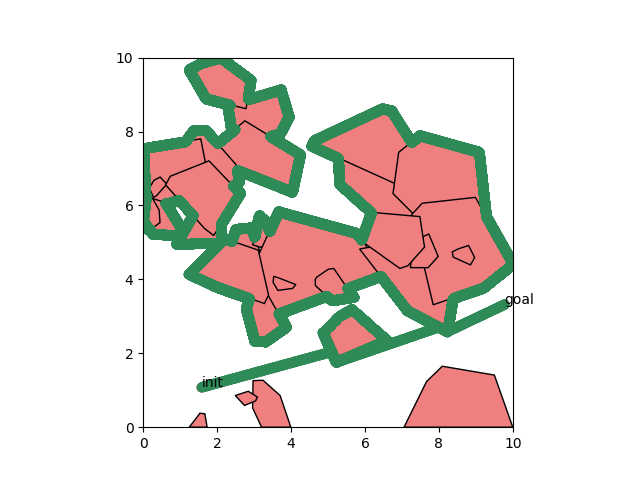
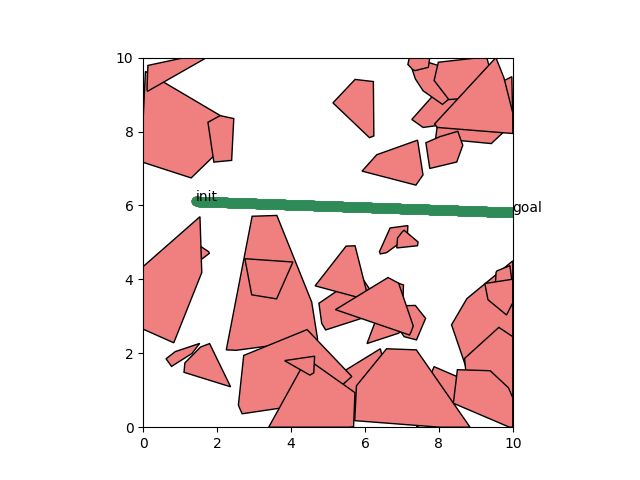
final

diff --git a/ws/hw2/MyBugAlgorithm.cpp b/ws/hw2/MyBugAlgorithm.cpp
@@ -3,6 +3,9 @@
 
 // Define a global (file-static) step size
 static constexpr double GLOBAL_STEP_SIZE = 0.01;
+static constexpr double WALL_OFFSET = 0.05; // Keep bug this distance away from walls
+static constexpr double LOOKAHEAD_STEP = 5;
+static constexpr double EXTRA_STEP = 1.0;
 
 // Helper function to check if a point is inside any obstacle and return which obstacle
 int MyBugAlgorithm::isInCollision(const Eigen::Vector2d& point, const amp::Problem2D& problem) {
@@ -47,15 +50,17 @@ Eigen::Vector2d MyBugAlgorithm::rotateCounterClockwise90(const Eigen::Vector2d& 
 }
 
 // Combined function to find closest boundary point AND wall normal from specific obstacle
-std::pair<Eigen::Vector2d, Eigen::Vector2d> MyBugAlgorithm::findClosestBoundaryAndNormal(const Eigen::Vector2d& point, const amp::Problem2D& problem, int obstacle_index) {
+// Returns (boundary_point, wall_normal, vertex_index) where vertex_index is the starting vertex for clockwise traversal
+std::tuple<Eigen::Vector2d, Eigen::Vector2d, int> MyBugAlgorithm::findClosestBoundaryAndNormal(const Eigen::Vector2d& point, const amp::Problem2D& problem, int obstacle_index) {
     double min_distance = std::numeric_limits<double>::max();
     Eigen::Vector2d closest_point = point;
     Eigen::Vector2d wall_normal = Eigen::Vector2d(1, 0); // Default normal
+    int closest_vertex_index = 0; // Which vertex to start clockwise traversal from
     
     // Only check the specified obstacle
     if (obstacle_index >= 0 && obstacle_index < problem.obstacles.size()) {
-        const auto& obstacle = problem.obstacles[obstacle_index];
-        const auto& vertices = obstacle.verticesCCW();
+        // Get vertices in clockwise order
+        std::vector<Eigen::Vector2d> vertices = getVerticesClockwise(problem, obstacle_index);
         int n = vertices.size();
         
         for (int i = 0; i < n; i++) {
@@ -73,21 +78,26 @@ std::pair<Eigen::Vector2d, Eigen::Vector2d> MyBugAlgorithm::findClosestBoundaryA
             
             double distance = (point - closest_on_edge).norm();
             if (distance < min_distance) {
+                //LOG("Distance: " << distance);
+                //LOG("EDGE VERTICES: " << v1.x() << "," << v1.y() << " and " << v2.x() << "," << v2.y());
                 min_distance = distance;
                 closest_point = closest_on_edge;
-                
+                closest_vertex_index = (i+1) % n; // Store the vertex index for clockwise traversal
+                //LOG("Closest vertex index: " << closest_vertex_index);
                 // Print the edge that was chosen
-                std::cout << "Chosen edge from obstacle " << obstacle_index << ": v1=(" << v1.x() << ", " << v1.y() << ") to v2=(" << v2.x() << ", " << v2.y() << "), distance=" << distance << std::endl;
+                //LOG("Chosen vertex vector: " << vertices[closest_vertex_index].x() << "," << vertices[closest_vertex_index].y());
+                //LOG("Next vertex vector: " << vertices[(closest_vertex_index+1) % n].x() << "," << vertices[(closest_vertex_index+1) % n].y());
                 
-                // Calculate outward normal for CCW polygon
-                // For edge v1->v2, outward normal is perpendicular to the RIGHT
-                // Since polygons are CCW, outward normal points away from obstacle
+                // Print all vertices in the list
+                //LOG("All vertices in clockwise order:");
+                
+                // Calculate outward normal for clockwise polygon
+                // For edge v1->v2 in clockwise order, outward normal is perpendicular to the LEFT
                 Eigen::Vector2d edge_unit = edge / edge_length;
-                wall_normal = Eigen::Vector2d(-edge_unit.y(), edge_unit.x()); // Right perpendicular = outward normal
+                wall_normal = Eigen::Vector2d(edge_unit.y(), -edge_unit.x()); // Left perpendicular = outward normal for clockwise
             }
         }
     }
-    
     // Verify normal points outward by checking if it points away from obstacle center
     if (obstacle_index >= 0 && obstacle_index < problem.obstacles.size()) {
         // Find center of the specific obstacle
@@ -111,7 +121,22 @@ std::pair<Eigen::Vector2d, Eigen::Vector2d> MyBugAlgorithm::findClosestBoundaryA
         }
     }
     
-    return std::make_pair(closest_point, wall_normal.normalized());
+    return std::make_tuple(closest_point, wall_normal.normalized(), closest_vertex_index);
+}
+
+// Helper method to get vertices in clockwise order (reverse of CCW)
+std::vector<Eigen::Vector2d> MyBugAlgorithm::getVerticesClockwise(const amp::Problem2D& problem, int obstacle_index) {
+    std::vector<Eigen::Vector2d> clockwise_vertices;
+    
+    if (obstacle_index >= 0 && obstacle_index < problem.obstacles.size()) {
+        const auto& vertices_ccw = problem.obstacles[obstacle_index].verticesCCW();
+        // Reverse the CCW vertices to get clockwise order
+        for (int i = vertices_ccw.size() - 1; i >= 0; i--) {
+            clockwise_vertices.push_back(vertices_ccw[i]);
+        }
+    }
+    
+    return clockwise_vertices;
 }
 
 // The fully implemented Bug 1 algorithm
@@ -120,7 +145,7 @@ amp::Path2D MyBugAlgorithm::plan(const amp::Problem2D& problem) {
     Eigen::Vector2d current_pos = problem.q_init;
     path.waypoints.push_back(current_pos);
 
-    int max_steps = 10000; // Prevent infinite loops REMOVE LATER
+    int max_steps = 50000; // Prevent infinite loops REMOVE LATER
     int step_count = 0;
 
     // Main loop: Continue until the goal is reached
@@ -131,29 +156,191 @@ amp::Path2D MyBugAlgorithm::plan(const amp::Problem2D& problem) {
         Eigen::Vector2d goal_direction = (problem.q_goal - current_pos).normalized();
 
         Eigen::Vector2d next_pos = current_pos + GLOBAL_STEP_SIZE * goal_direction;
+        Eigen::Vector2d next_pos_lookahead = current_pos + LOOKAHEAD_STEP * GLOBAL_STEP_SIZE * goal_direction;
 
         // Check for collision
-        int collision_obstacle = isInCollision(next_pos, problem);
+        int collision_obstacle = isInCollision(next_pos_lookahead, problem);
         if (collision_obstacle == -1) {
             // No collision, take the step
             current_pos = next_pos;
             path.waypoints.push_back(current_pos);
         } else {
             // Collision detected! Enter wall-following mode.
-            
-            // === STATE 2: CIRCUMNAVIGATE OBSTACLE (Right-Hand Rule) === amend infuture follow counterclockwise iterate thru points on the obstacle??? keep checkign forward vector for collisions with other obstacles
+            // === STATE 2: CIRCUMNAVIGATE OBSTACLE (Right-Hand Rule) === amend infuture follow clockwise iterate thru points on the obstacle   ??? keep checkign forward vector for collisions with other obstacles
             Eigen::Vector2d hit_point = current_pos; // this might need to be changed to the point on the obstacle boundary that we hit
             Eigen::Vector2d closest_point = hit_point;
             Eigen::Vector2d circumnavigation_start = hit_point; // Save starting position for circumnavigation
+
             double min_dist_to_goal = (hit_point - problem.q_goal).norm();
 
             // Use the obstacle we just hit
             int current_obstacle = collision_obstacle;
-            LOG("Hit obstacle index: " << current_obstacle);
+            //LOG("Hit obstacle index: " << current_obstacle);
 
             // Find the closest point on the obstacle boundary AND get wall normal
-            auto [boundary_point, wall_normal] = findClosestBoundaryAndNormal(current_pos, problem, current_obstacle);
+            auto [boundary_point, wall_normal, start_vertex_index] = findClosestBoundaryAndNormal(current_pos, problem, current_obstacle);
+            //LOG("Start vertex index: " << start_vertex_index);
+            std::vector<Eigen::Vector2d> clockwise_vertices = getVerticesClockwise(problem, current_obstacle);
+            //LOG("Start vertex: " << clockwise_vertices[start_vertex_index].x() << "," << clockwise_vertices[start_vertex_index].y());
+            //LOG("Next vertex: " << clockwise_vertices[(start_vertex_index + 1) % clockwise_vertices.size()].x() << "," << clockwise_vertices[(start_vertex_index + 1) % clockwise_vertices.size()].y());
+           
+  
+            // Get vertices in clockwise order for wall following
+        
+            int current_vertex_index = start_vertex_index;
             
+            // Create offset target using wall normal (much simpler!)
+            // Offset should be from the start vertex, not the arbitrary boundary point
+            Eigen::Vector2d start_vertex = clockwise_vertices[current_vertex_index];
+            Eigen::Vector2d target_vertex = start_vertex + WALL_OFFSET * wall_normal;
+            
+            // Track if we've completed circumnavigation
+            bool circumnavigated = false;
+            
+            // Wall following loop - go clockwise around obstacle
+            int wall_follow_steps = 0;
+            while (wall_follow_steps < 200000) { // Safety limit for wall following
+    
+                // Check if current position is closer to goal than previous minimum
+                double current_dist_to_goal = (current_pos - problem.q_goal).norm();
+                if (current_dist_to_goal < min_dist_to_goal) {
+                    min_dist_to_goal = current_dist_to_goal;
+                    closest_point = current_pos;
+                    //LOG("New closest point to goal found at distance: " << min_dist_to_goal);
+                    
+                }
+                // if (circumnavigated) {
+                //     std::cout << "Press Enter to continue..." << std::endl;
+                //     std::cin.get();
+                // }
+               // LOG("Cloest point to goal: " << closest_point.x() << "," << closest_point.y());
+               
+                    // We can move towards the goal! Check if we've completed circumnavigation
+                 if (circumnavigated && (current_pos - closest_point).norm() < GLOBAL_STEP_SIZE * 5) {
+                        // We've completed circumnavigation AND we're at the closest point to goal
+                        //LOG("Circumnavigation complete and at closest point - can leave wall following!");
+                        //LOG("Moving towards goal from closest point");
+                        break; // Exit wall following mode
+                    }
+                
+               
+                wall_follow_steps++;
+               //LOG("location of bug: " << current_pos.x() << "," << current_pos.y());
+                // std::cout << "Press Enter to continue..." << std::endl;
+                // std::cin.get();
+                // Move towards the current target vertex in clockwise direction
+                Eigen::Vector2d vertex_direction = (target_vertex - current_pos).normalized();
+                Eigen::Vector2d vertex_step = current_pos + GLOBAL_STEP_SIZE * vertex_direction;
+                // std::cout << "Press Enter to continue..." << std::endl;
+                // std::cin.get();
+                // Check 50% further ahead to anticipate collisions
+                Eigen::Vector2d lookahead_step = current_pos + LOOKAHEAD_STEP * GLOBAL_STEP_SIZE * vertex_direction;
+                
+                // Check if we can move towards the vertex (check both current step and lookahead)
+                int lookahead_collision = isInCollision(lookahead_step, problem);
+               // LOG("Lookahead collision: " << lookahead_collision);
+               // LOG("lookahead step vector: " << lookahead_step.x() << "," << lookahead_step.y());
+         
+                if (lookahead_collision == -1) {
+                    current_pos = vertex_step;
+                    path.waypoints.push_back(current_pos);
+                   // LOG("Moving towards vertex " << current_vertex_index << " at (" << current_pos.x() << "," << current_pos.y() << ")");
+                   // LOG("target: " << target_vertex.x() << "," << target_vertex.y());
+                    
+                    // Check if we've reached the target vertex
+                    if ((current_pos - target_vertex).norm() < GLOBAL_STEP_SIZE) {
+                        // Move to the next vertex in clockwise order
+                        // Take an extra step past the vertex to ensure we go past it
+                        current_pos = current_pos + GLOBAL_STEP_SIZE* EXTRA_STEP * vertex_direction;
+                        path.waypoints.push_back(current_pos);
+                        
+                        current_vertex_index = (current_vertex_index + 1) % clockwise_vertices.size();
+                    
+                     
+                        // Get wall normal for the next edge (from current_vertex_index to next vertex, i.e., current_vertex_index + 1)
+                        int next_vertex_index = (current_vertex_index - 1) % clockwise_vertices.size();
+                        Eigen::Vector2d edge = clockwise_vertices[next_vertex_index] - clockwise_vertices[current_vertex_index];
+                        // Print the edge vertices
+
+                        // Compute outward normal (assuming vertices are ordered counter-clockwise)
+                        Eigen::Vector2d next_wall_normal(edge.y(), -edge.x());
+                        next_wall_normal.normalize();
+                        start_vertex = clockwise_vertices[current_vertex_index];
+                        target_vertex = start_vertex + WALL_OFFSET * next_wall_normal;
+                
+                        
+                  
+                        
+                        
+                        //LOG("Reached vertex, moving to next vertex " << current_vertex_index << " at offset position (" << target_vertex.x() << "," << target_vertex.y() << ")");
+                        //LOG("Raw vertex position: (" << clockwise_vertices[current_vertex_index].x() << "," << clockwise_vertices[current_vertex_index].y() << ")");
+                    }
+                } else {
+                    // Hit another obstacle, break out of wall following
+                    //LOG("Hit another obstacle while wall following, obstacle index: " << lookahead_collision);
+                  
+                    // Print vertices of the obstacle we hit
+                    std::vector<Eigen::Vector2d> hit_obstacle_vertices = getVerticesClockwise(problem, lookahead_collision);
+                    //LOG("Hit obstacle " << lookahead_collision << " vertices:");
+                    for (size_t i = 0; i < hit_obstacle_vertices.size(); i++) {
+                        //LOG("  Vertex " << i << ": (" << hit_obstacle_vertices[i].x() << "," << hit_obstacle_vertices[i].y() << ")");
+                    }
+                    
+                    // Switch to the new obstacle and start circumnavigating it
+                    current_obstacle = lookahead_collision;
+                    
+                    // Find the closest point on the new obstacle boundary and get wall normal
+                    auto [new_boundary_point, new_wall_normal, new_start_vertex_index] = findClosestBoundaryAndNormal(current_pos, problem, current_obstacle);
+                    //LOG("New start vertex index: " << new_start_vertex_index);
+                    clockwise_vertices = getVerticesClockwise(problem, current_obstacle);
+                    //LOG("New start vertex: " << clockwise_vertices[new_start_vertex_index].x() << "," << clockwise_vertices[new_start_vertex_index].y());
+                    //LOG("New next vertex: " << clockwise_vertices[(new_start_vertex_index + 1) % clockwise_vertices.size()].x() << "," << clockwise_vertices[(new_start_vertex_index + 1) % clockwise_vertices.size()].y());
+               
+                    // Update current vertex index and target vertex for the new obstacle
+                    current_vertex_index = new_start_vertex_index;
+                    
+                    // Create offset target using the new wall normal (much simpler!)
+                    start_vertex = clockwise_vertices[current_vertex_index];
+                    target_vertex = start_vertex + WALL_OFFSET * new_wall_normal;
+                    //LOG("New target vertex: " << target_vertex.x() << "," << target_vertex.y());
+           
+                }
+                //LOG("current position: " << current_pos.x() << "," << current_pos.y());
+                //LOG("circumnavigation start: " << circumnavigation_start.x() << "," << circumnavigation_start.y());
+                //LOG("wall follow steps: " << wall_follow_steps);
+                // std::cout << "Press Enter to continue..." << std::endl;
+                // std::cin.get();
+                // Check if we've completed a full loop around the obstacle
+                if ((current_pos - circumnavigation_start).norm() < GLOBAL_STEP_SIZE * 5 && wall_follow_steps > 15 && circumnavigated == false) {
+                    circumnavigated = true;
+
+                }
+            }
+            LOG("Circumnavigation complete!");
+            
+          
+          
+          
+          
+          
+          
+          
+          
+          
+          
+          
+          
+          
+          
+          
+          
+          
+          
+          
+          
+          /*
+       
+          
             // For clockwise wall following, we want to move perpendicular to the normal
             // (tangent direction). For CCW polygons, outward normal points away from obstacle
             // So tangent = rotate normal 90 degrees clockwise
@@ -163,6 +350,8 @@ amp::Path2D MyBugAlgorithm::plan(const amp::Problem2D& problem) {
             LOG("Boundary point (" << boundary_point.x() << "," << boundary_point.y() << ")");
             LOG("Wall normal (" << wall_normal.x() << "," << wall_normal.y() << ")");
             LOG("Wall follow dir (" << wall_follow_dir.x() << "," << wall_follow_dir.y() << ")");
+            std::cout << "Press Enter to continue..." << std::endl;
+            std::cin.get();
             // Pause here for debugging
            // std::cout << "Press Enter to continue..." << std::endl;
             //std::cin.get();
@@ -216,7 +405,8 @@ amp::Path2D MyBugAlgorithm::plan(const amp::Problem2D& problem) {
                         LOG("Wall follow - BLOCKED, finding next wall IS THIS NTO SAVING???");
                         // Update current obstacle to the one we're now colliding with
                         // Find the closest boundary point from current position to get new wall normal
-                        auto [new_boundary_point, new_wall_normal] = findClosestBoundaryAndNormal(current_pos, problem, current_obstacle);
+                        auto [new_boundary_point, new_wall_normal, new_vertex_index] = findClosestBoundaryAndNormal(current_pos, problem, current_obstacle);
+                        current_vertex_index = new_vertex_index; // Update current vertex index
                         
                         // Turn cloclwise from the new wall normal
                         Eigen::Vector2d clockwise_dir = rotateClockwise90(new_wall_normal);
@@ -249,8 +439,11 @@ amp::Path2D MyBugAlgorithm::plan(const amp::Problem2D& problem) {
                     std::cin.get();
                     break;
                 }
+                
             }
+                */
         }
+            
     }
     return path;
 }

diff --git a/ws/hw2/MyBugAlgorithm.h b/ws/hw2/MyBugAlgorithm.h
@@ -19,8 +19,11 @@ class MyBugAlgorithm : public amp::BugAlgorithm {
         Eigen::Vector2d rotateClockwise90(const Eigen::Vector2d& vec);
         Eigen::Vector2d rotateCounterClockwise90(const Eigen::Vector2d& vec);
         
-        // Helper methods for surface normal detection
-        std::pair<Eigen::Vector2d, Eigen::Vector2d> findClosestBoundaryAndNormal(const Eigen::Vector2d& point, const amp::Problem2D& problem, int obstacle_index);
+        // Helper methods for surface normal detection - returns (boundary_point, wall_normal, vertex_index)
+        std::tuple<Eigen::Vector2d, Eigen::Vector2d, int> findClosestBoundaryAndNormal(const Eigen::Vector2d& point, const amp::Problem2D& problem, int obstacle_index);
+        
+        // Helper method to get vertices in clockwise order
+        std::vector<Eigen::Vector2d> getVerticesClockwise(const amp::Problem2D& problem, int obstacle_index);
         
         // Add any member variables here...
 };

diff --git a/ws/hw2/main.cpp b/ws/hw2/main.cpp
@@ -16,7 +16,7 @@ int main(int argc, char** argv) {
     /*    Randomly generate the problem     */ 
 
     // Use WO1 from Exercise 2
-    Problem2D problem = HW2::getWorkspace2();
+    Problem2D problem = HW2::getWorkspace1();
 
     // Use WO1 from Exercise 2
     /*
